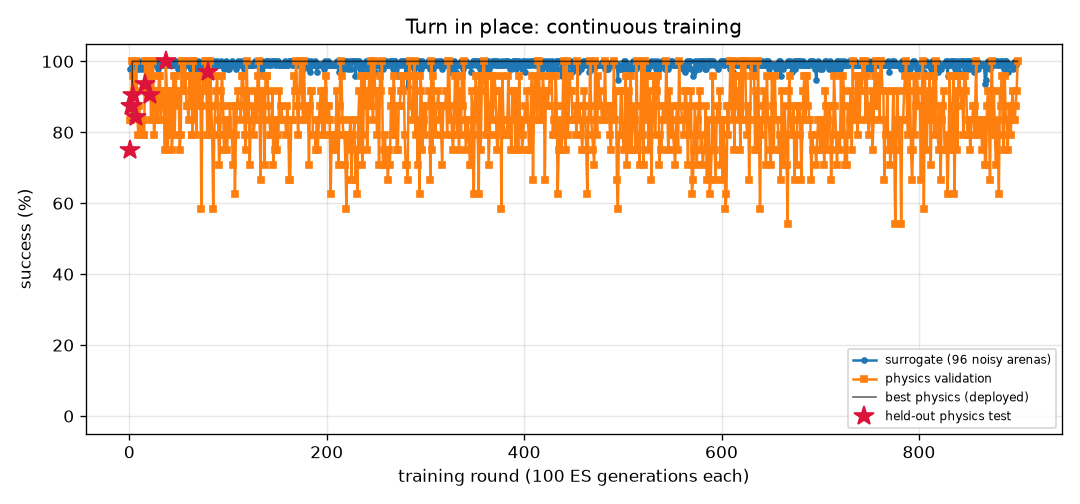
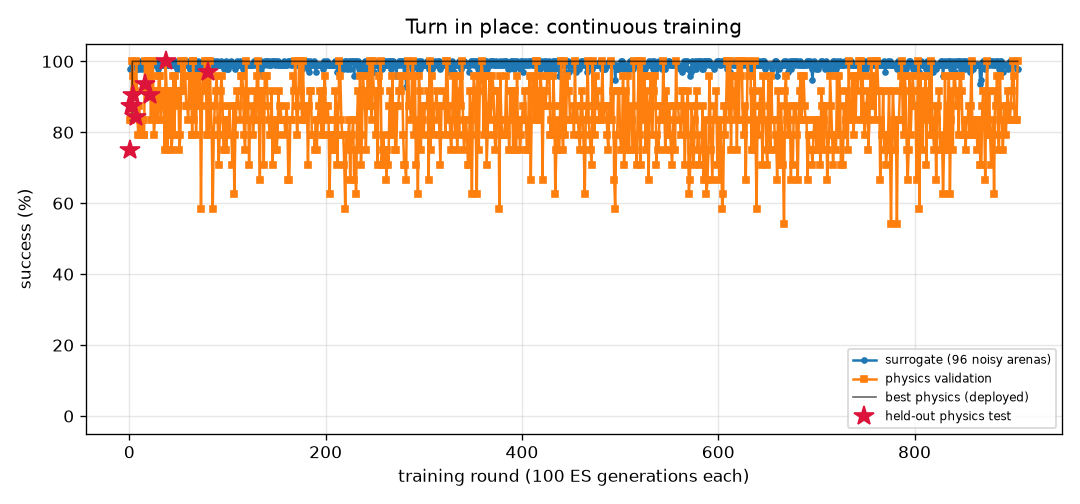
FlyLab: continuous training progress
- walk_forward: optimal, physics val 100% of 24, round 308
- turn: optimal, physics val 100% of 24, round 905
- goto: optimal, physics val 100% of 24, round 250
- odor_seek: optimal, physics val 100% of 24, round 205
- odor_avoid: optimal, physics val 100% of 24, round 812
- light_seek: optimal, physics val 100% of 24, round 443
- light_avoid: optimal, physics val 100% of 24, round 543

diff --git a/projects/09_flylab/training/turn/REPORT.md b/projects/09_flylab/training/turn/REPORT.md
@@ -1,14 +1,14 @@
 # Turn in place (`turn`) — training report
 
-*Auto-generated by `train_brains.py`, last updated 2026-11-06T22:30:15.*
+*Auto-generated by `train_brains.py`, last updated 2026-11-07T12:58:25.*
 
 ![curve](curve.png)
 
 | | |
 |---|---|
-| rounds | 900 |
-| ES generations | 90000 |
-| physics runs | 21846 |
+| rounds | 905 |
+| ES generations | 90500 |
+| physics runs | 21966 |
 | status | **optimal** |
 | best brain | round 80: physics validation **100%** on 24 arenas, surrogate 100% |
 | held-out physics test | **97%** on 32 unseen arenas (95% CI 84%-99%) (errors: [1.6, 3.3, 6.3, 3.7, 1.1, 0.4, 2.4, 2.9, 0.1, 2.6, 0.5, 2.7, 1.5, 3.1, 4.5, 0.2, 0.5, 1.1, 2.0, 4.4, 2.8, 3.2, 0.3, 2.2, 0.5, 3.0, 0.3, 5.4, 0.4, 1.0, 4.7, 10.7]) |
@@ -17,11 +17,6 @@ Physics error per arena: deg from target heading (< 20 = success).
 
 | round | level | gens | sigma | surrogate | physics val | val errors | test | note |
 |---:|---:|---:|---:|---:|---:|---|---:|---|
-| 861 | 3 | 86100 | 0.024 | 99% | 79% | [1.0, 1.5, 0.5, 1.9, 0.9, 2.2, 6.8, 1.5, 6.5, 0.8, 5.3, 1.2, 0.8, 1.4, 3.5, 3.5, 0.9, 1.2, 3.2, 0.8, 3.4, 1.6, 6.7, 2.3] |  |  |
-| 862 | 3 | 86200 | 0.025 | 99% | 83% | [1.4, 9.3, 11.3, 3.2, 2.2, 6.6, 5.6, 7.7, 7.0, 3.6, 7.7, 4.2, 0.2, 2.3, 6.6, 3.9, 4.2, 4.4, 4.8, 3.5, 2.0, 3.5, 6.6, 8.1] |  |  |
-| 863 | 3 | 86300 | 0.025 | 99% | 83% | [5.7, 0.2, 2.6, 2.6, 2.0, 0.6, 6.4, 8.2, 4.9, 1.9, 5.6, 1.4, 0.4, 2.4, 6.3, 1.5, 1.2, 1.9, 0.8, 2.6, 4.8, 2.8, 5.0, 4.7] |  |  |
-| 864 | 3 | 86400 | 0.025 | 99% | 75% | [0.1, 7.6, 13.1, 1.0, 17.1, 5.5, 10.9, 9.8, 10.6, 4.0, 7.5, 5.7, 4.0, 2.0, 7.3, 3.9, 5.7, 6.8, 4.0, 4.6, 2.5, 4.0, 6.6, 10.1] |  | restart from best |
-| 865 | 3 | 86500 | 0.024 | 99% | 83% | [6.5, 5.7, 1.3, 1.0, 2.5, 1.0, 4.4, 5.1, 5.7, 1.1, 3.4, 0.3, 0.3, 2.3, 4.0, 3.0, 0.1, 1.0, 2.4, 2.3, 111.9, 1.7, 6.1, 4.5] |  |  |
 | 866 | 3 | 86600 | 0.025 | 99% | 83% | [6.9, 8.5, 4.3, 1.9, 5.1, 2.1, 2.9, 2.7, 3.1, 1.0, 3.4, 1.6, 2.4, 4.9, 2.3, 1.4, 2.1, 1.4, 1.7, 1.3, 7.5, 0.2, 3.7, 3.3] |  |  |
 | 867 | 3 | 86700 | 0.025 | 94% | 71% | [103.1, 6.3, 0.3, 2.5, 10.8, 3.5, 5.5, 1.2, 5.1, 2.6, 3.9, 2.0, 0.3, 1.7, 4.5, 10.3, 0.2, 1.7, 1.6, 0.5, 103.3, 3.0, 5.4, 7.1] |  |  |
 | 868 | 3 | 86800 | 0.028 | 95% | 71% | [9.8, 10.2, 0.8, 2.3, 5.4, 1.4, 2.4, 9.6, 3.8, 1.1, 3.2, 1.6, 2.2, 3.1, 2.9, 1.2, 2.2, 0.4, 1.2, 1.0, 111.4, 1.5, 4.1, 2.6] |  | restart from best |
@@ -57,3 +52,8 @@ Physics error per arena: deg from target heading (< 20 = success).
 | 898 | 3 | 89800 | 0.024 | 99% | 88% | [4.6, 8.3, 8.1, 3.6, 3.4, 0.5, 1.9, 3.1, 3.3, 1.8, 3.1, 2.0, 3.3, 2.4, 3.4, 1.2, 1.9, 0.4, 1.7, 1.7, 7.8, 0.2, 3.2, 3.8] |  |  |
 | 899 | 3 | 89900 | 0.025 | 100% | 92% | [5.2, 5.4, 2.1, 1.0, 2.6, 4.1, 5.3, 4.1, 3.4, 3.4, 3.3, 0.2, 1.6, 3.0, 3.5, 0.4, 0.4, 1.1, 0.7, 0.3, 3.1, 0.2, 2.3, 1.7] |  |  |
 | 900 | 3 | 90000 | 0.024 | 100% | 100% | [0.7, 3.8, 1.4, 1.0, 0.9, 1.2, 3.4, 8.8, 4.9, 0.1, 3.6, 3.1, 1.0, 0.9, 2.7, 2.2, 2.9, 0.6, 1.8, 3.2, 1.0, 0.2, 6.2, 1.6] |  | restart from best |
+| 901 | 3 | 90100 | 0.024 | 99% | 96% | [3.4, 8.5, 3.1, 3.9, 9.6, 2.0, 3.3, 1.4, 4.1, 1.0, 2.7, 1.4, 1.0, 4.4, 1.5, 1.1, 1.7, 0.9, 2.2, 1.1, 6.2, 0.7, 5.7, 11.2] |  |  |
+| 902 | 3 | 90200 | 0.025 | 99% | 83% | [5.4, 1.7, 6.5, 0.7, 1.6, 5.1, 6.9, 5.9, 7.3, 1.6, 6.2, 0.7, 0.4, 0.9, 4.4, 8.5, 1.3, 4.7, 2.0, 2.1, 7.0, 2.9, 5.6, 6.8] |  |  |
+| 903 | 3 | 90300 | 0.025 | 100% | 83% | [2.9, 13.5, 9.3, 0.6, 15.7, 116.9, 7.7, 4.6, 8.7, 16.9, 4.6, 3.8, 1.9, 1.4, 4.4, 6.5, 3.8, 16.1, 13.6, 14.5, 1.3, 3.6, 8.6, 7.8] |  |  |
+| 904 | 3 | 90400 | 0.024 | 98% | 83% | [2.8, 12.0, 17.4, 5.2, 18.4, 7.9, 11.3, 10.1, 10.4, 4.0, 6.6, 4.2, 3.2, 4.2, 5.1, 7.9, 4.2, 18.1, 6.8, 17.9, 3.0, 7.5, 9.6, 11.8] |  | restart from best |
+| 905 | 3 | 90500 | 0.024 | 98% | 100% | [9.3, 11.3, 10.9, 6.5, 5.0, 2.4, 0.4, 6.0, 1.0, 3.2, 0.7, 4.5, 2.9, 5.4, 0.1, 0.7, 3.4, 3.4, 5.2, 5.6, 6.1, 1.9, 0.2, 8.6] |  |  |

diff --git a/projects/09_flylab/training/walk_forward/REPORT.md b/projects/09_flylab/training/walk_forward/REPORT.md
@@ -1,14 +1,14 @@
 # Walk forward (`walk_forward`) — training report
 
-*Auto-generated by `train_brains.py`, last updated 2026-11-06T23:49:21.*
+*Auto-generated by `train_brains.py`, last updated 2026-11-07T00:15:23.*
 
 ![curve](curve.png)
 
 | | |
 |---|---|
-| rounds | 307 |
-| ES generations | 30700 |
-| physics runs | 7382 |
+| rounds | 308 |
+| ES generations | 30800 |
+| physics runs | 7406 |
 | status | **optimal** |
 | best brain | round 116: physics validation **100%** on 24 arenas, surrogate 100% |
 | held-out physics test | **100%** on 32 unseen arenas (95% CI 89%-100%) (errors: [0.13, 0.16, 0.19, 0.16, 0.15, 0.2, 0.17, 0.18, 0.17, 0.19, 0.2, 0.14, 0.17, 0.19, 0.2, 0.2, 0.13, 0.19, 0.16, 0.2, 0.2, 0.16, 0.17, 0.2, 0.13, 0.15, 0.18, 0.14, 0.16, 0.15, 0.19, 0.12]) |
@@ -17,7 +17,6 @@ Physics error per arena: mm from target at the end (< 1.5 and standing still = s
 
 | round | level | gens | sigma | surrogate | physics val | val errors | test | note |
 |---:|---:|---:|---:|---:|---:|---|---:|---|
-| 268 | 3 | 26800 | 0.025 | 100% | 100% | [0.24, 0.28, 0.16, 0.23, 0.27, 0.16, 0.27, 0.18, 0.27, 0.26, 0.15, 0.24, 0.18, 0.15, 0.26, 0.25, 0.22, 0.27, 0.19, 0.26, 0.2, 0.26, 0.24, 0.17] |  | restart from best |
 | 269 | 3 | 26900 | 0.024 | 100% | 100% | [0.11, 0.12, 0.12, 0.1, 0.15, 0.06, 0.12, 0.09, 0.15, 0.11, 0.11, 0.13, 0.08, 0.11, 0.08, 0.09, 0.12, 0.14, 0.11, 0.11, 0.12, 0.1, 0.14, 0.07] |  |  |
 | 270 | 3 | 27000 | 0.024 | 100% | 100% | [0.12, 0.11, 0.09, 0.11, 0.11, 0.09, 0.12, 0.12, 0.12, 0.09, 0.09, 0.13, 0.1, 0.08, 0.09, 0.06, 0.1, 0.09, 0.1, 0.08, 0.11, 0.09, 0.06, 0.07] |  |  |
 | 271 | 3 | 27100 | 0.024 | 100% | 100% | [0.32, 0.23, 0.08, 0.31, 0.24, 0.24, 0.22, 0.09, 0.22, 0.23, 0.09, 0.27, 0.11, 0.08, 0.26, 0.21, 0.15, 0.14, 0.1, 0.16, 0.1, 0.2, 0.26, 0.1] |  |  |
@@ -57,3 +56,4 @@ Physics error per arena: mm from target at the end (< 1.5 and standing still = s
 | 305 | 3 | 30500 | 0.024 | 100% | 92% | [0.22, 0.27, 0.16, 0.22, 0.28, 0.13, 0.28, 0.04, 0.27, 0.26, 0.06, 0.25, 0.07, 0.05, 0.24, 0.26, 0.2, 0.27, 0.05, 0.25, 0.19, 0.26, 0.24, 0.33] |  |  |
 | 306 | 3 | 30600 | 0.024 | 99% | 100% | [0.32, 0.29, 0.28, 0.32, 0.29, 0.27, 0.29, 0.32, 0.29, 0.27, 0.26, 0.26, 0.3, 0.27, 0.31, 0.26, 0.32, 0.29, 0.32, 0.31, 0.32, 0.27, 0.26, 0.31] |  |  |
 | 307 | 3 | 30700 | 0.025 | 100% | 96% | [0.22, 0.24, 0.05, 0.22, 0.24, 0.03, 0.25, 0.2, 0.24, 0.11, 0.08, 0.1, 0.2, 0.06, 0.24, 0.1, 0.22, 0.24, 0.2, 0.24, 0.2, 0.12, 0.13, 0.2] |  |  |
+| 308 | 3 | 30800 | 0.024 | 100% | 96% | [0.06, 0.09, 0.05, 0.09, 0.1, 0.18, 0.09, 0.07, 0.09, 0.2, 0.1, 0.22, 0.07, 0.12, 0.08, 0.22, 0.09, 0.07, 0.08, 0.13, 0.08, 0.18, 0.21, 0.06] |  | restart from best |

diff --git a/projects/09_flylab/training/TRAINING.md b/projects/09_flylab/training/TRAINING.md
@@ -1,13 +1,13 @@
 # FlyLab brains — continuous training log
 
-*Auto-generated by `train_brains.py`, last updated 2026-11-06T23:57:55.*
+*Auto-generated by `train_brains.py`, last updated 2026-11-07T12:58:25.*
 
 Every skill has its own brain and its own training process: surrogate ES rounds, physics validation in MuJoCo, keep-the-best selection, and a held-out physics test that is never used for selection. See each skill's report for its full round-by-round history. Mastery is progressive: passing a level (100% physics validation, >=95% surrogate) doubles the validation and test arena sets; a brain is **optimal** once it holds up at level 3 (>=95% of 24 validation arenas) AND scores >=90% on the 32 held-out test arenas. Test columns show 95% Wilson confidence intervals.
 
 | skill | rounds | ES generations | physics runs | surrogate | physics val | **physics test** | status |
 |---|---:|---:|---:|---:|---:|---:|---|
-| [Walk forward](walk_forward/REPORT.md) | 307 | 30700 | 7382 | 100% | 100% of 24 | 100% of 32 (CI 89-100%) | **optimal** |
-| [Turn in place](turn/REPORT.md) | 900 | 90000 | 21846 | 100% | 100% of 24 | 97% of 32 (CI 84-99%) | **optimal** |
+| [Walk forward](walk_forward/REPORT.md) | 308 | 30800 | 7406 | 100% | 100% of 24 | 100% of 32 (CI 89-100%) | **optimal** |
+| [Turn in place](turn/REPORT.md) | 905 | 90500 | 21966 | 100% | 100% of 24 | 97% of 32 (CI 84-99%) | **optimal** |
 | [Go to a location](goto/REPORT.md) | 250 | 25000 | 5950 | 100% | 100% of 24 | 100% of 32 (CI 89-100%) | **optimal** |
 | [Find food by smell](odor_seek/REPORT.md) | 205 | 20500 | 4350 | 100% | 100% of 24 | 100% of 32 (CI 89-100%) | **optimal** |
 | [Escape a bad smell](odor_avoid/REPORT.md) | 812 | 81200 | 16794 | 97% | 100% of 24 | 97% of 32 (CI 84-99%) | **optimal** |
